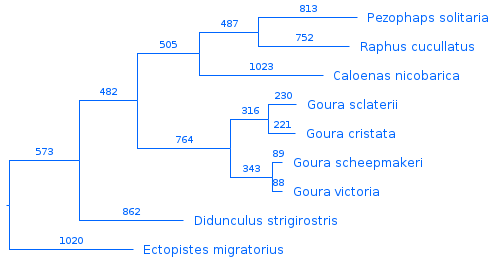
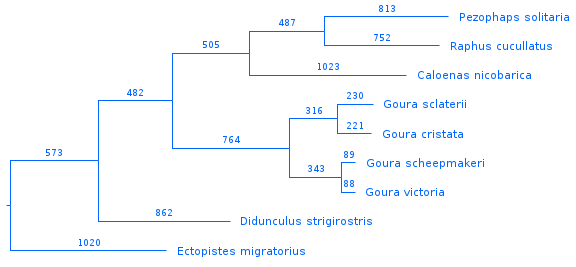
Changed color of mitochondria tree to orange

diff --git a/docs/notes/species_tree.md b/docs/notes/species_tree.md
@@ -109,7 +109,7 @@ savetrees file=processed/mitochondria_tree.nexus brlens=yes
 The tree labels and color were modified in FigTree (v1.4.4), resulting in the mitogenome tree shown below, with number of nucleotide changes along each branch:
 
 <!--Increase DPI and make bottem left branch red like the rest of the tree-->
-![Mitochondrial Maximum Parsimony Tree](../../results/figures/mitochondria_tree.species_names.blue.png)
+![Mitochondrial Maximum Parsimony Tree](../../results/figures/mitochondria_tree.species_names.orange.png)
 
 ## Maximum Parsimony Tree of Cytochrome C Oxidase Subunits
 
